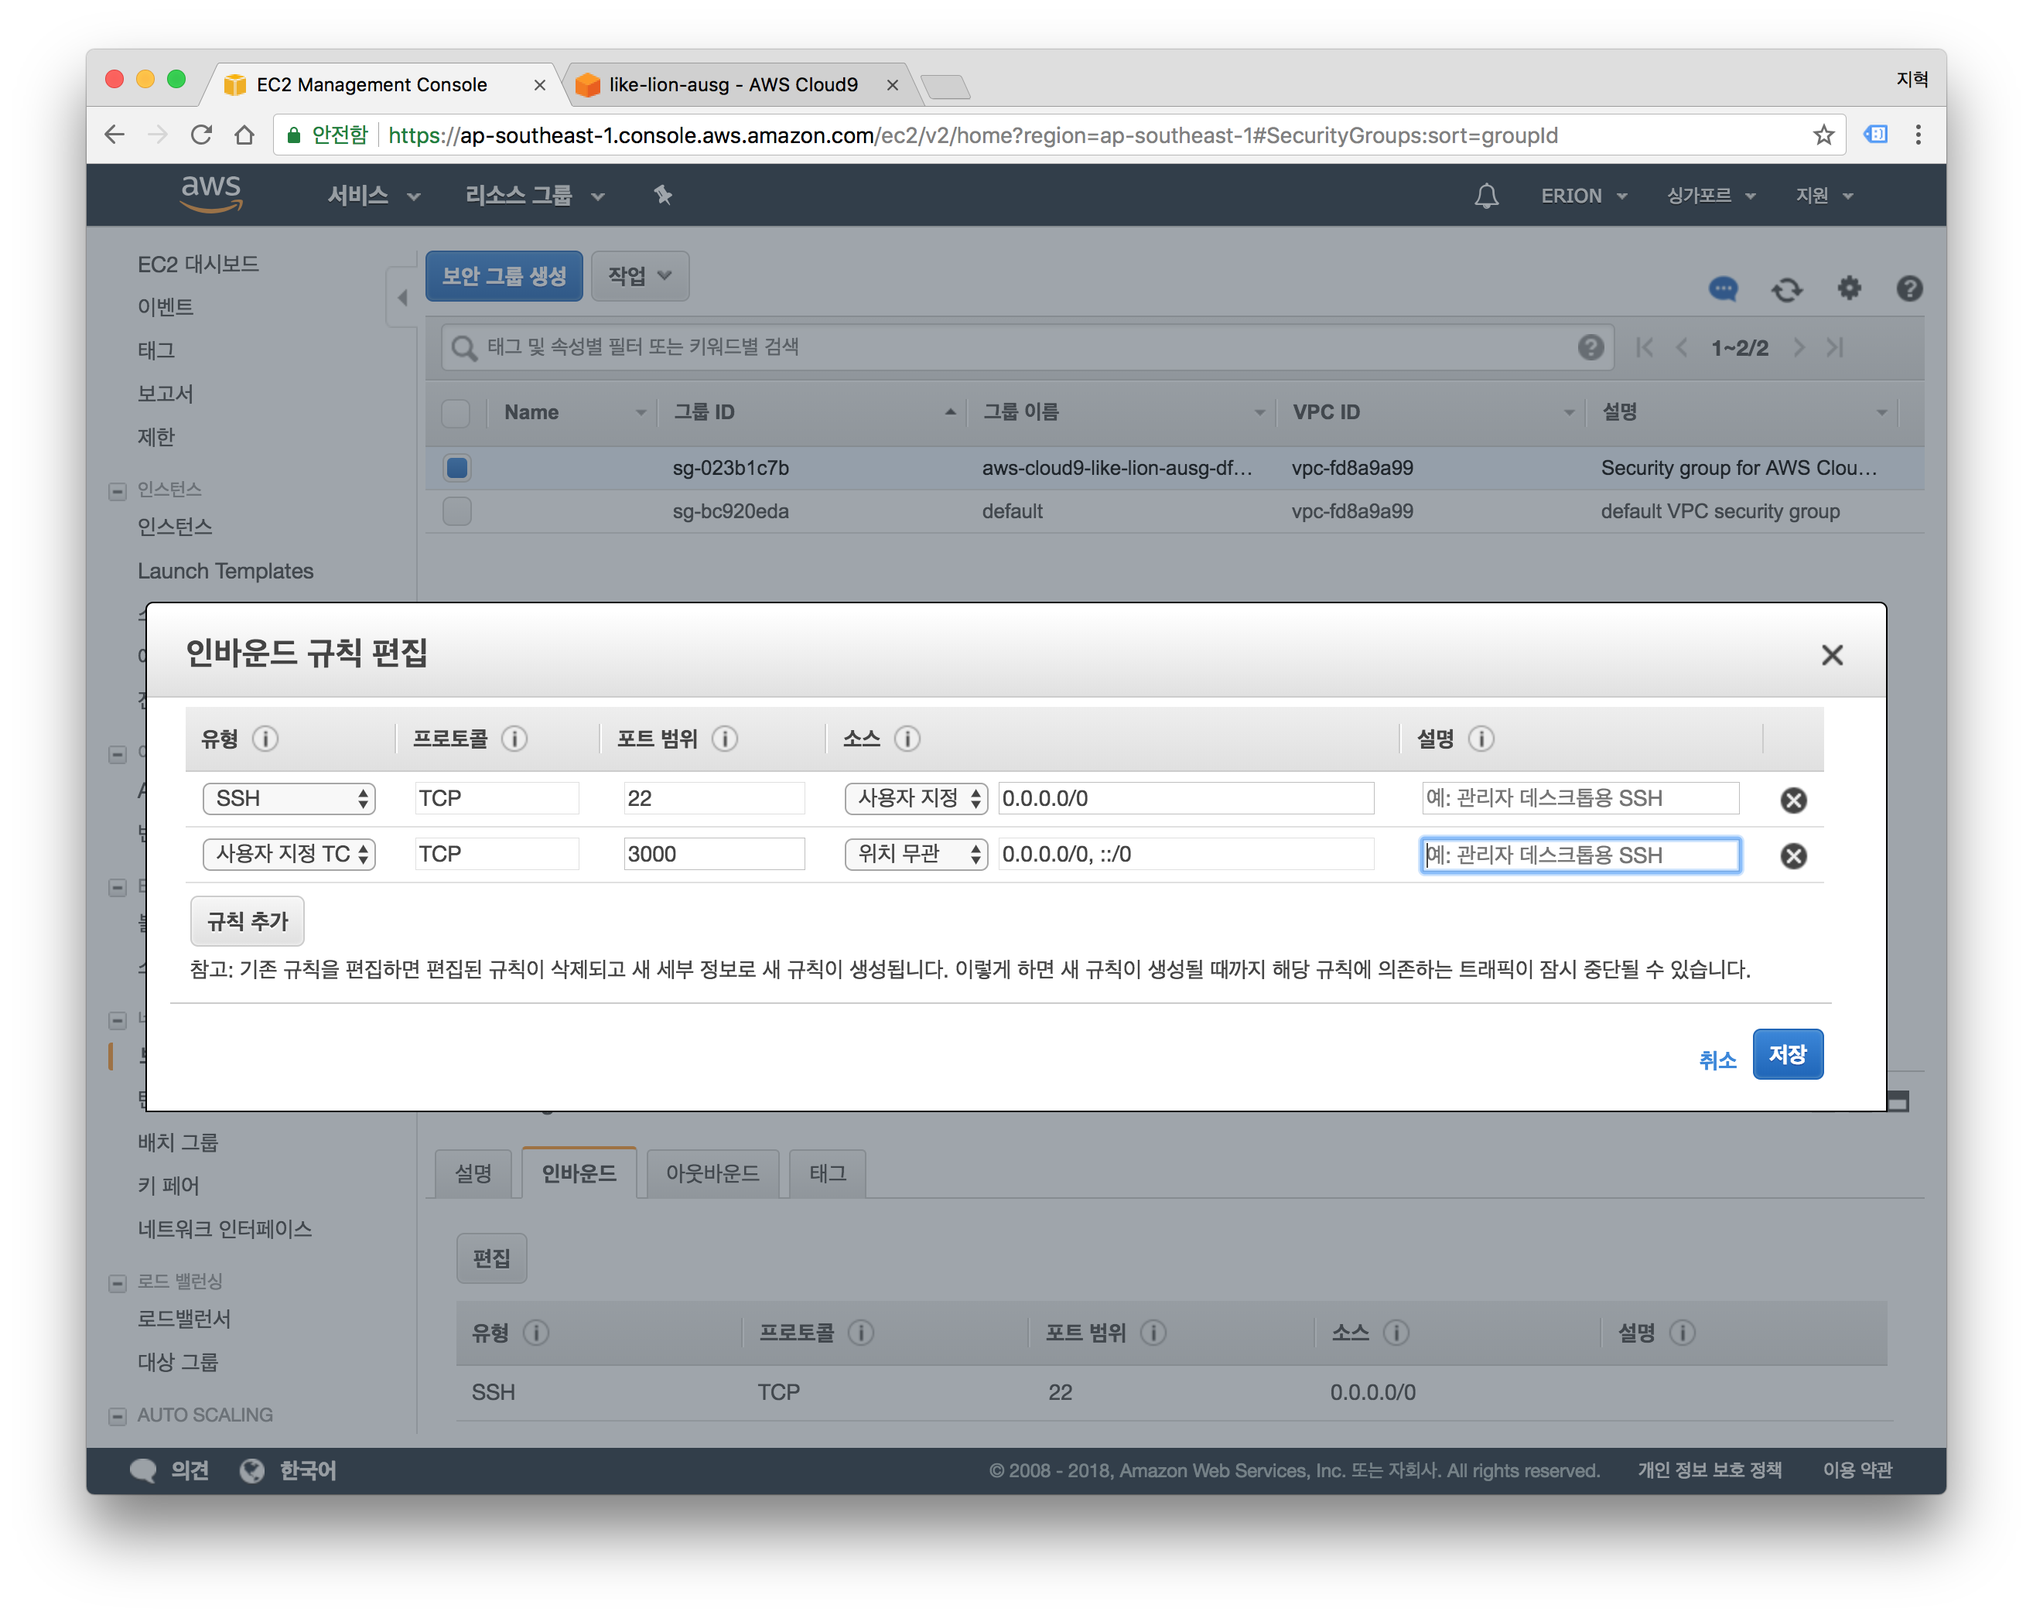
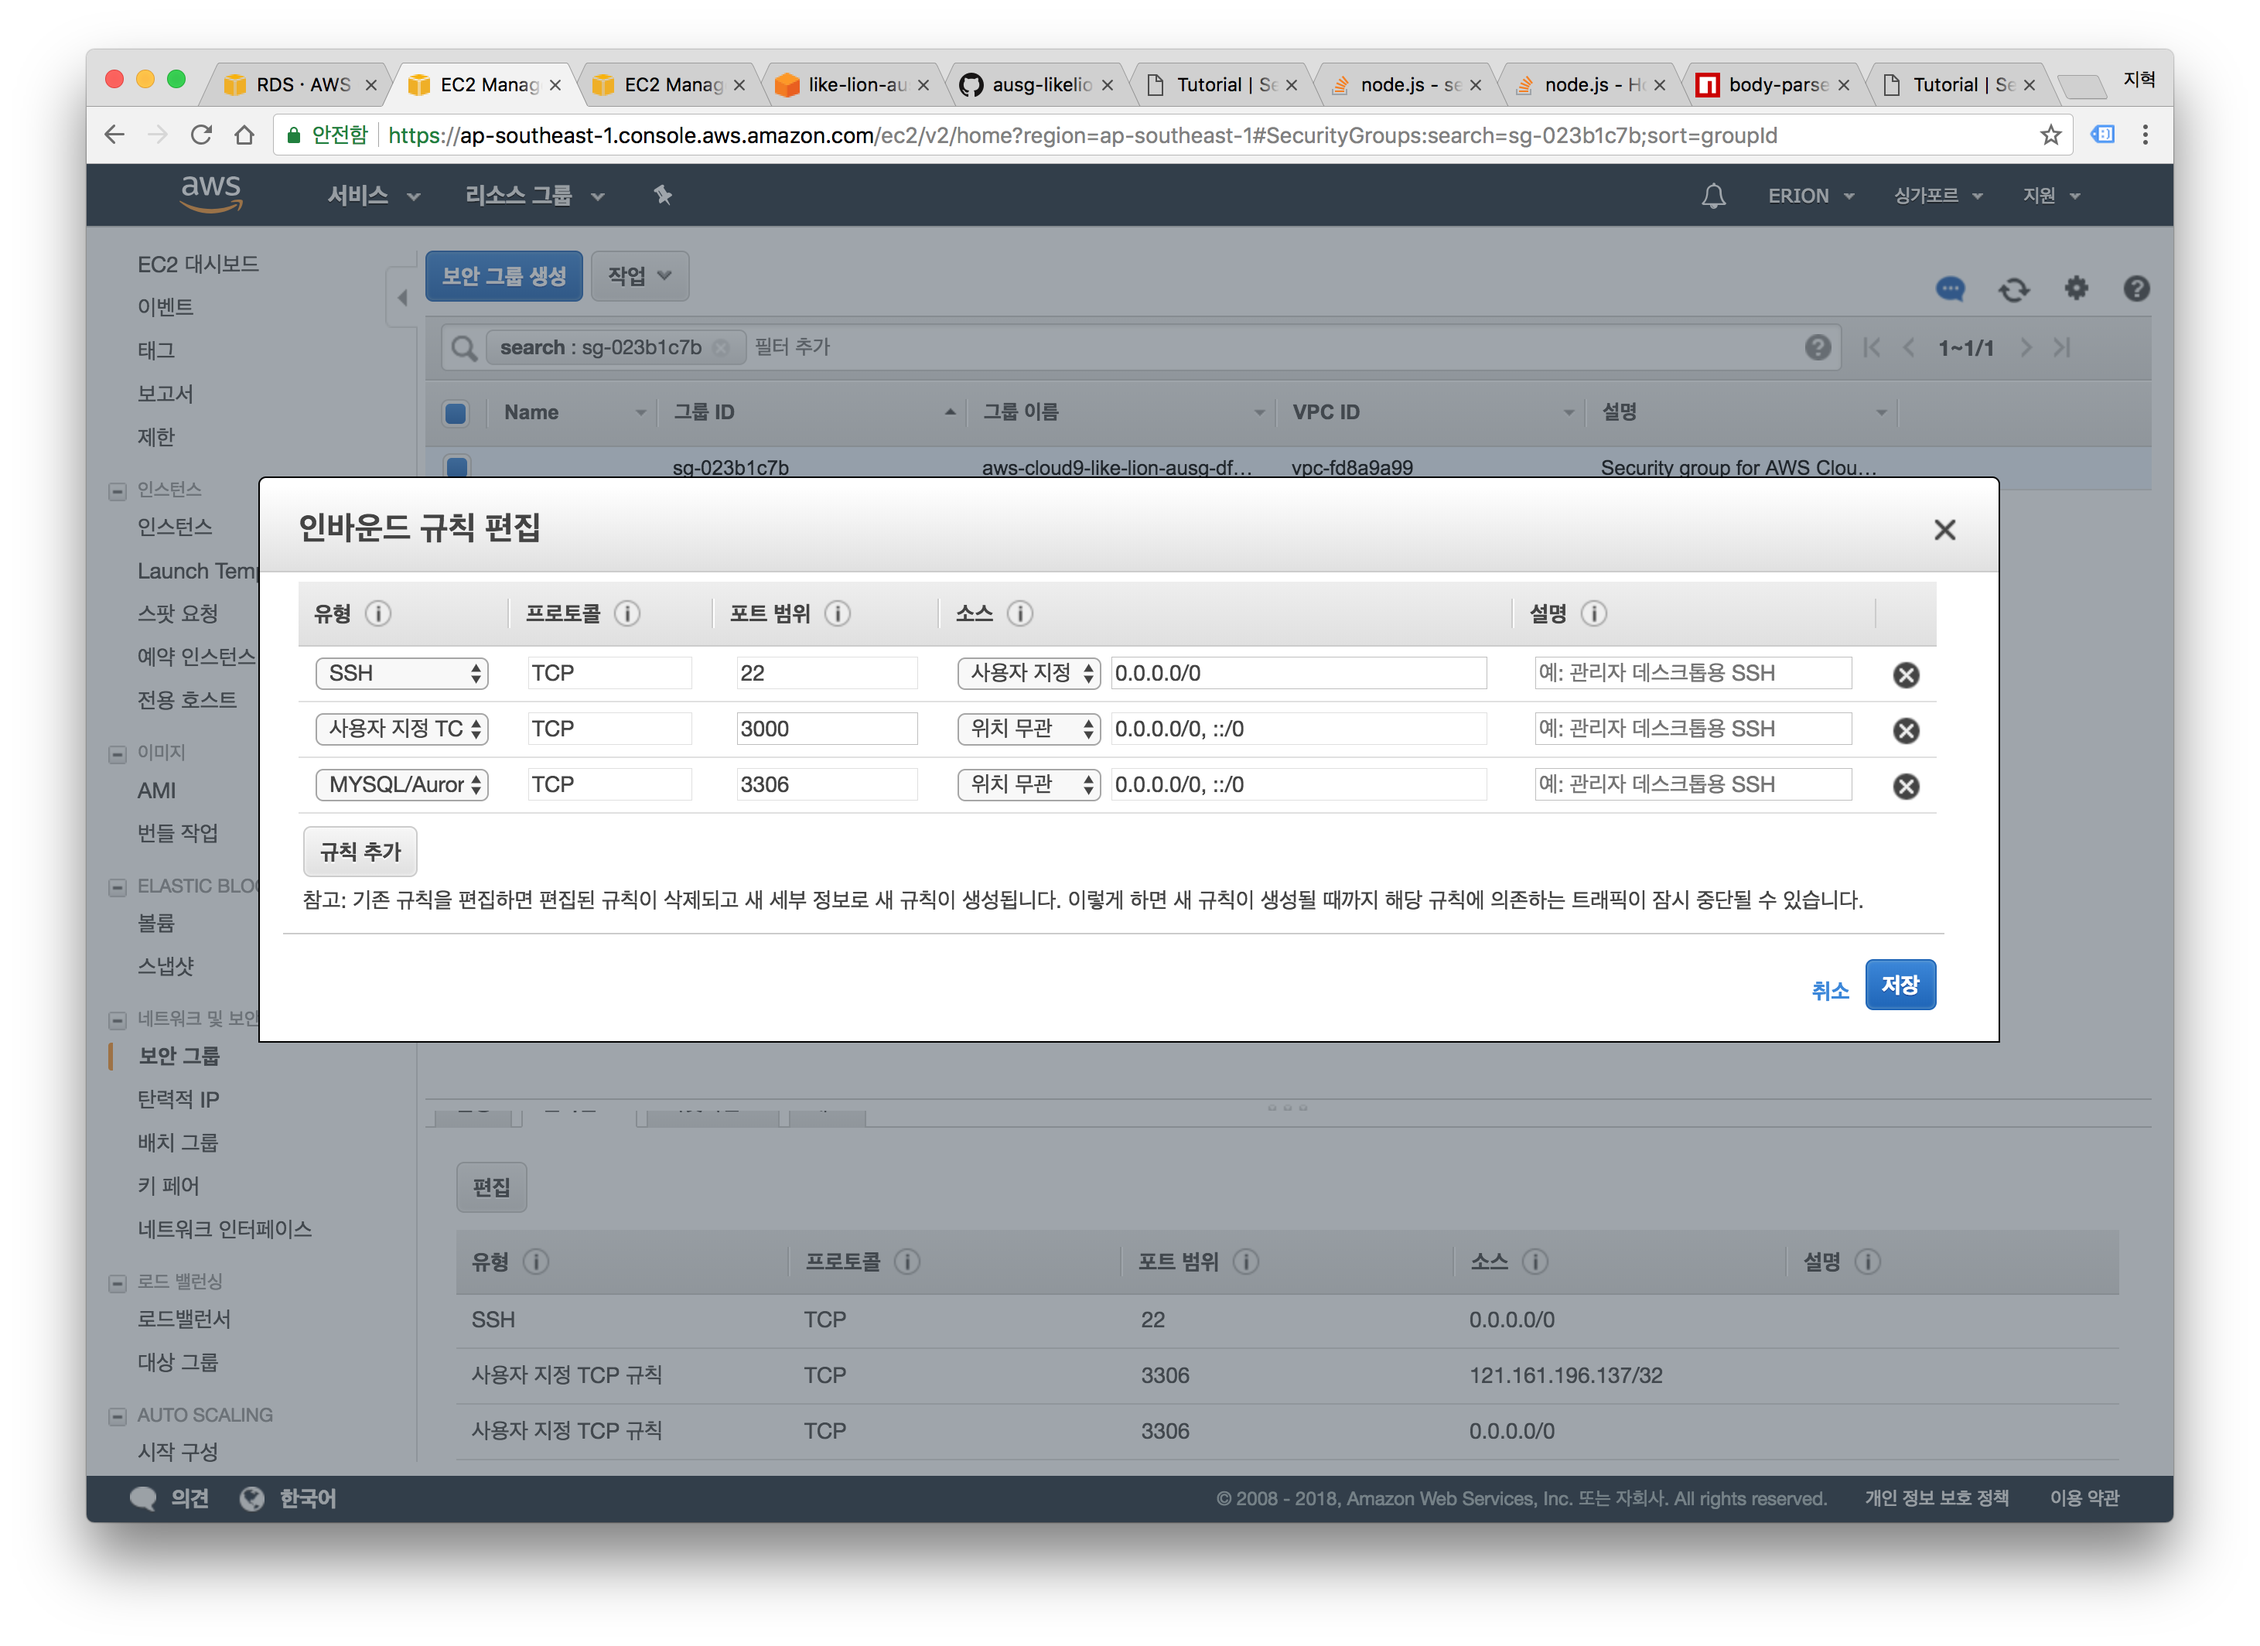
Sequelize + Endpoint 만들기

diff --git a/4_Sequelize_js/index.md b/4_Sequelize_js/index.md
@@ -1,0 +1,158 @@
+# Sequelize.js
+이번 챕터에서는 RDBMS ORM인 Sequelize.js를 RDS에 연결해봅니다.  
+  
+## 설치
+우리의 프로젝트에 Sequlize를 설치합니다.
+아까 만든 Cloud9으로 이동해 다음 명령어를 터미널에 입력해주세요.
+
+```bash
+$ npm install mysql2 sequelize --save
+```
+
+설치가 완료되었습니다. 이제 코드를 수정해볼까요?
+
+## Sequelize 연동
+index.js 코드를 다음과 같이 수정합니다.
+
+```javascript
+const express = require('express')
+const bodyParser = require('body-parser')
+const cors = require('cors')
+const app = express()
+
+///////// 여기서부터
+const Sequelize = require('sequelize')
+const sequelize = new Sequelize('DB이름', '마스터사용자이름', '마스터암호', {
+    host: '확인한엔드포인트주소',
+    dialect: 'mysql',
+});
+///////// 여기까지 추가되었습니다.
+
+app.use(cors())
+app.use(bodyParser.json())
+app.get('/', function (req, res) {
+    res.json({
+        message: "Hello, Like-Lion! We're AUSG!",
+    })
+})
+
+app.listen(3000)
+```
+
+Sequelize를 이용해 Model을 새롭게 정의해줍니다.  
+  
+```javascript
+const express = require('express')
+const bodyParser = require('body-parser')
+const cors = require('cors')
+const app = express()
+const Sequelize = require('sequelize')
+const sequelize = new Sequelize('DB이름', '마스터사용자이름', '마스터암호', {
+    host: '확인한엔드포인트주소',
+    dialect: 'mysql',
+});
+
+///////// 여기서부터
+const ImagePost = sequelize.define('image_post', {
+    id: {
+        type: Sequelize.INTEGER,
+        primaryKey: true,
+        autoIncrement: true,
+    },
+    username: Sequelize.STRING,
+    title: Sequelize.STRING,
+    description: Sequelize.TEXT,
+    url: Sequelize.STRING,
+})
+ImagePost.sync({ alter: true })
+///////// 여기까지 추가되었습니다.
+
+app.use(cors())
+app.use(bodyParser.json())
+app.get('/', function (req, res) {
+    res.json({
+        message: "Hello, Like-Lion! We're AUSG!",
+    })
+})
+
+app.listen(3000)
+```
+
+몇가지 엔드포인트를 만들어보겠습니다.
+
+- GET /images
+> 현재 DB에 업로드된 자료를 모두 가져옵니다.
+
+- POST /images
+> 현재 DB에 새 자료를 업로드합니다.
+  
+코드를 수정합니다.
+
+```javascript
+const express = require('express')
+const bodyParser = require('body-parser')
+const cors = require('cors')
+const Sequelize = require('sequelize')
+const app = express()
+
+const sequelize = new Sequelize('hellodb', 'admin', 'admin12345', {
+    host: 'like-lion-ausg.citwvqi18z6a.ap-southeast-1.rds.amazonaws.com',
+    dialect: 'mysql',
+});
+
+const ImagePost = sequelize.define('image_post', {
+    id: {
+        type: Sequelize.INTEGER,
+        primaryKey: true,
+        autoIncrement: true,
+    },
+    username: Sequelize.STRING,
+    title: Sequelize.STRING,
+    description: Sequelize.TEXT,
+    url: Sequelize.STRING,
+})
+
+ImagePost.sync({ alter: true })
+
+app.use(cors())
+app.use(bodyParser.json())
+
+app.get('/', function (req, res) {
+    res.json({
+        message: "Hello, Like-Lion! We're AUSG!",
+    })
+})
+
+app.get('/images', function (req, res) {
+    ImagePost.findAll()
+        .then(function (result) {
+            res.json(result)
+        })
+        .catch(function (error) {
+            res.json(error)
+        })
+})
+
+app.post('/images', function (req, res) {
+    ImagePost.create({
+        title: req.body.title,
+        description: req.body.description,
+        url: req.body.url,
+    }).then(function () {
+        res.json({
+            message: 'success!',
+        })
+    }).catch(function (error) {
+        res.json({
+            message: 'failed!',
+        })
+        console.log(error)
+    })
+})
+
+app.listen(3000)
+```
+
+짠! 최종 코드가 완성되었습니다. Postman을 활용해서 결과를 확인해보세요!
+  
+축하드립니다! 실습이 완료되셨으면, 다음 모듈인 [SPA 웹앱 올리기](../5_SPA)로 이동하세요.

diff --git a/1_C9/README.md b/1_C9/README.md
@@ -40,10 +40,10 @@ $ npm init
 ```
 
 - 몇가지 선택 사항을 물어보는데, 모두 기본값을 사용합니다. (엔터 계속 입력)
-- Express.js를 사용 할 것이므로, npm을 이용해 미리 설치해줍니다.
+- 필요한 라이브러리를 npm을 이용해 미리 설치해줍니다.
 
 ```bash
-$ npm install express --save
+$ npm install express body-parser cors --save
 ```
 
 - 프로젝트 생성과 express 설치가 완료되었다면 마찬가지로 왼쪽의 브라우저 탭에서 오른쪽 클릭해 `New File`을 선택하고
@@ -53,8 +53,12 @@ $ npm install express --save
 
 ```javascript
 const express = require('express')
+const bodyParser = require('body-parser')
+const cors = require('cors')
 const app = express()
 
+app.use(cors())
+app.use(bodyParser.json())
 app.get('/', function (req, res) {
     res.json({
         message: "Hello, Like-Lion! We're AUSG!",
@@ -86,6 +90,7 @@ $ node index.js
 ![스크린샷](images/screenshot-22.png)
 - `편집`을 클릭해 인바운드 규칙을 아래의 그림과 같이 추가한 뒤 `저장` 버튼을 누릅니다.
 > 인바운드 규칙 추가를 통해 원하는 포트 번호를 추가 할 수 있습니다. 오늘 우리는 임의적으로 3000번 포트를 열었습니다. 일반적인 HTTP 기본 포트는 `80`, HTTPS 기본 포트는 `443`을 사용합니다.
+> 우리가 곧 추가 할 MySQL도 이 보안 설정을 그대로 사용 할 것이므로 3306 포트 (MySQL)도 열어줍니다.
 
 ![스크린샷](images/screenshot-23.png)
 

diff --git a/3_RDS/README.md b/3_RDS/README.md
@@ -33,6 +33,6 @@
 - 좌측 탭의 `인스턴스`를 클릭합니다.
 - 방금 만든 DB 인스턴스의 이름을 클릭합니다.
 - 아래로 내리면 `연결` 파트에 엔드포인트가 나타납니다. 확인하세요.
-- ![스크린샷](images/screenshot-20.png)
+![스크린샷](images/screenshot-20.png)
 
 축하드립니다! 실습이 완료되셨으면, 다음 모듈인 [Sequelize.js](../4_Sequelize_js)로 이동하세요.

diff --git a/5_SPA/README.md b/5_SPA/README.md
@@ -1,0 +1,1 @@
+# SPA
